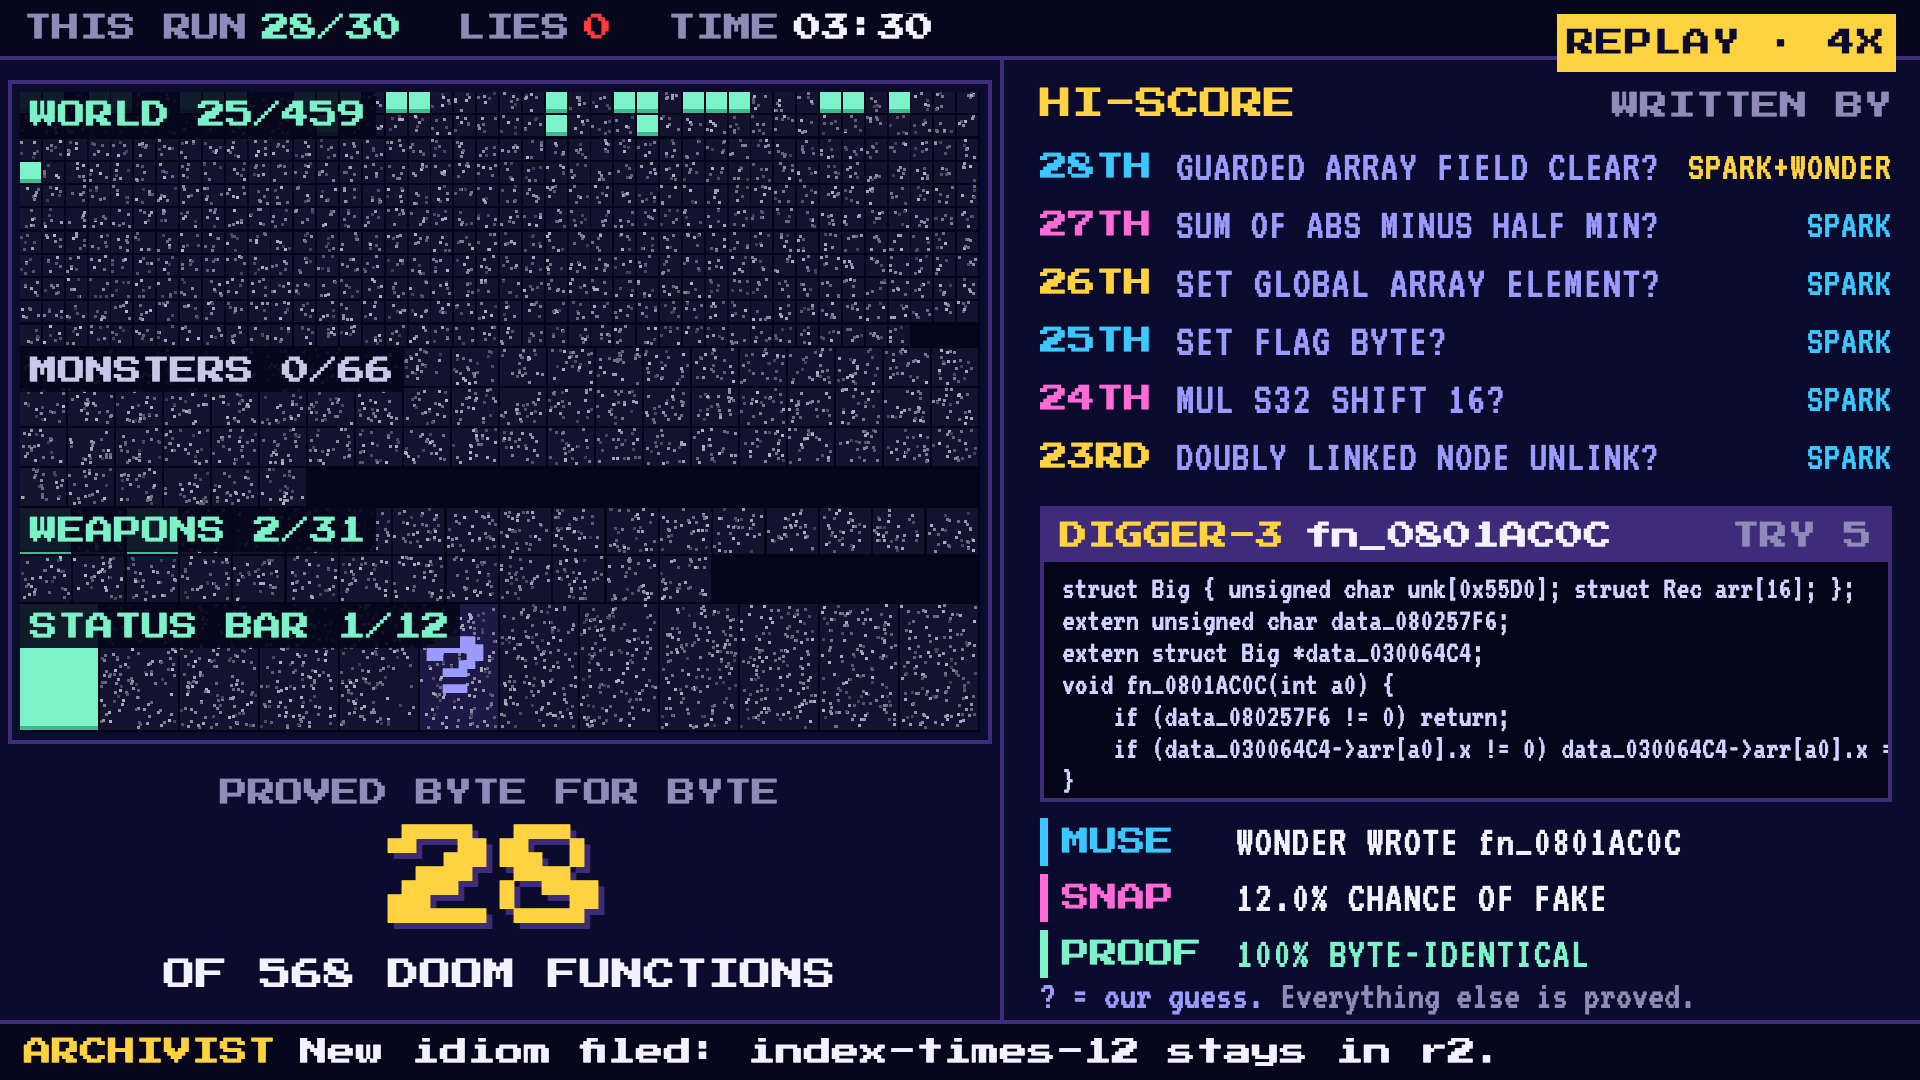
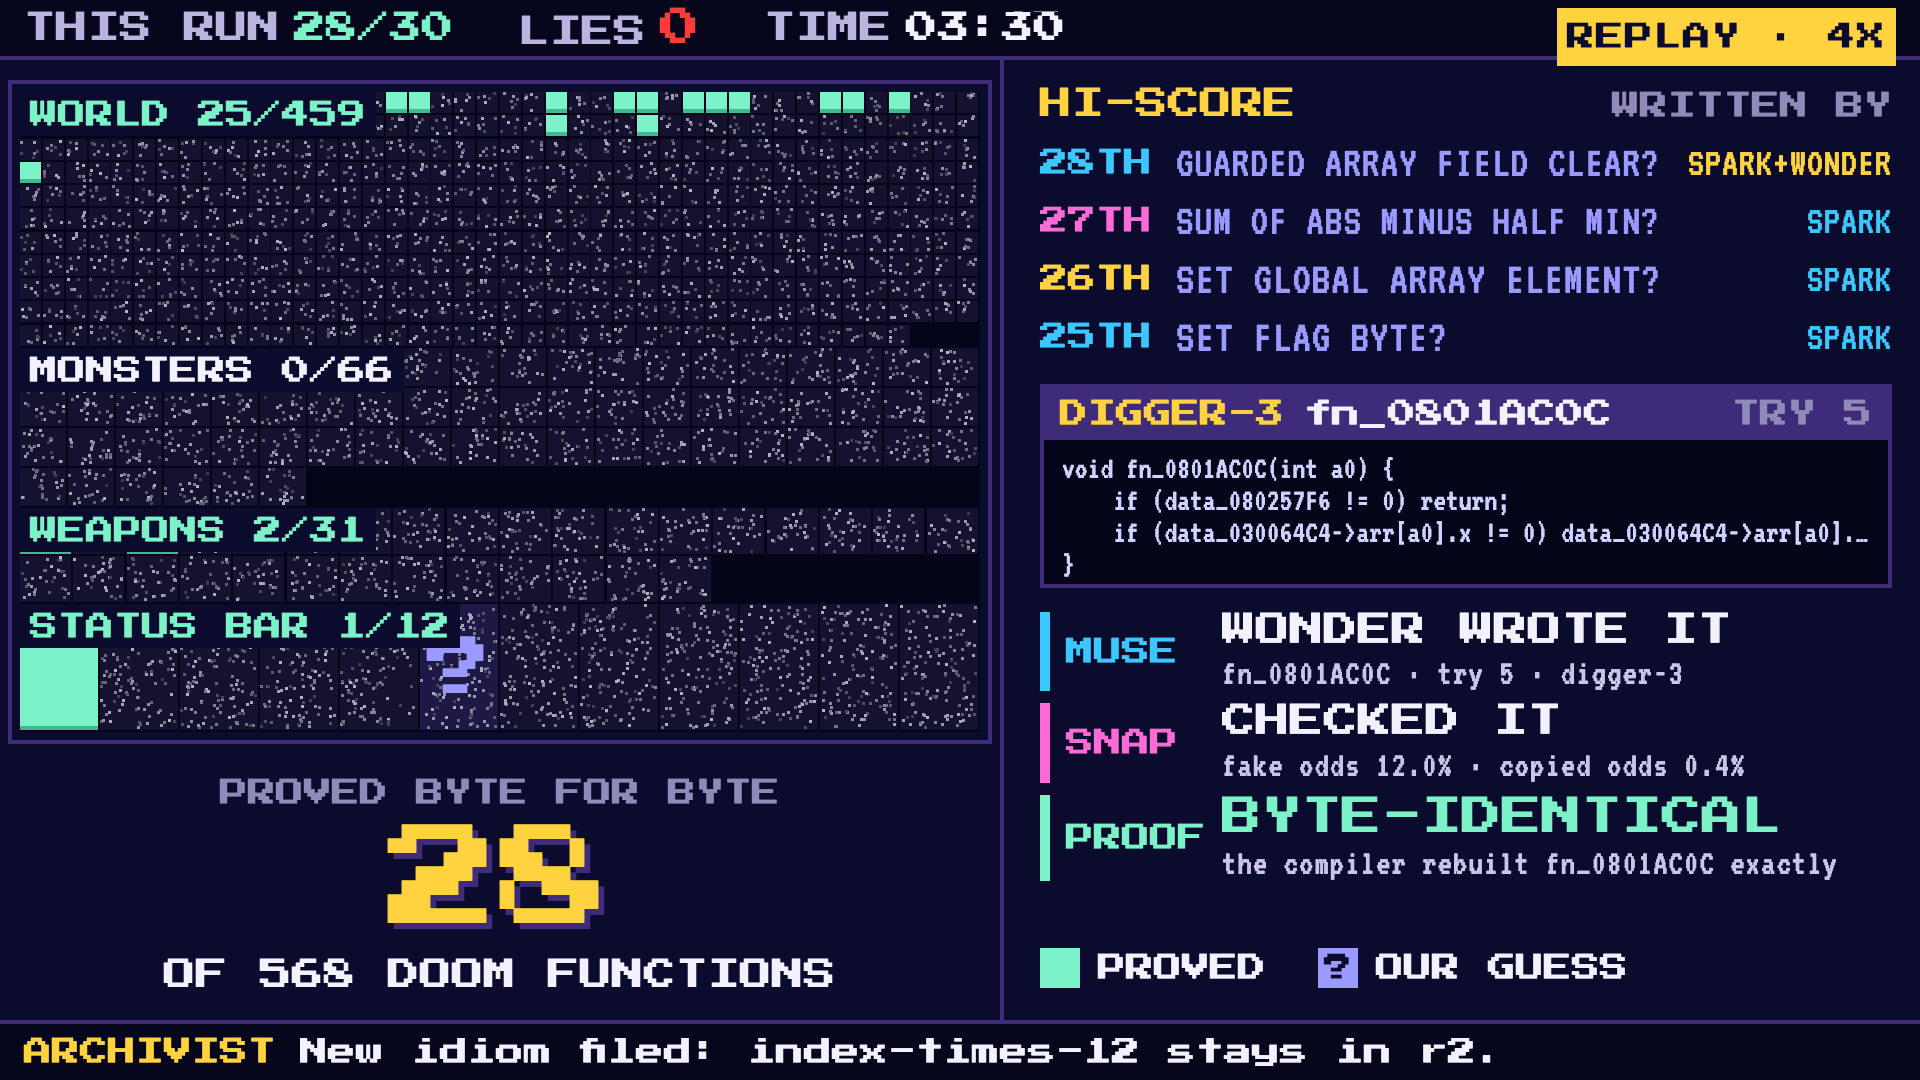
stage: Split reads as Muse wrote it, Snap checked it, the compiler proved it
Evaluator round 1 (Split 4.5/10) found it read as a dashboard with the sponsors
buried. Now the right column is quiet: four hi-score rows, a four-line code
snippet that never clips, and a large proof chain in plain words (who did it,
then the evidence: fake and copied odds, the function rebuilt exactly). A big
PROVED / OUR GUESS legend replaces the footnote; the HUD is larger and the map
labels sit on solid plates.

diff --git a/stage/src/scenes/split.ts b/stage/src/scenes/split.ts
@@ -24,26 +24,29 @@ export function regionRect(r: Region) {
   return { x: FRAME.x + r.x * FRAME.scale, y: FRAME.y + r.y * FRAME.scale, w: r.w * FRAME.scale, h: r.h * FRAME.scale };
 }
 
-/** One line of what SubQ Snap (or Gemini, the second lab) just decided, in plain words. */
-export function snapLine(d: SnapDecision, s: State): { tag: string; text: string; cls: string } {
+/** A proof-chain line: who (tag), what they did in plain words (big), the evidence (small). */
+export type ChainLine = { tag: string; big: string; small: string; cls: string };
+
+/** What SubQ Snap (or Gemini, the second lab) just decided, in plain words. */
+export function snapLine(d: SnapDecision, s: State): ChainLine {
   const p = d.p ?? {};
-  const conf = typeof p.confidence === 'number' ? ` ${Math.round(p.confidence * 100)}%` : '';
+  const sure = typeof p.confidence === 'number' ? `${Math.round(p.confidence * 100)}% sure` : '';
   switch (d.op) {
     case 'review': {
-      const lab = String(p.reviewer ?? 'snap');
-      return { tag: lab === 'gemini' ? 'GEMINI' : 'SNAP', text: `${pc(p.fakematch_p)} CHANCE OF FAKE`, cls: lab === 'gemini' ? 'gem' : 'snap' };
+      const gem = String(p.reviewer ?? 'snap') === 'gemini';
+      return { tag: gem ? 'GEMINI' : 'SNAP', big: gem ? 'SECOND OPINION' : 'CHECKED IT', cls: gem ? 'gem' : 'snap',
+        small: `fake odds ${pc(p.fakematch_p)} · copied odds ${pc(p.recital_p)}` };
     }
     case 'decide_next': {
       const a = String(p.action ?? 'keep');
-      const text = a === 'escalate' ? `ESCALATE TO ${short(s.escalationModel ?? 'muse-wonder-1.0')}${conf}`
-        : a === 'abandon' ? `ABANDON IT${conf}` : `KEEP DIGGING${conf}`;
-      return { tag: 'SNAP', text, cls: 'snap hold' };
+      const big = a === 'escalate' ? `SENT IT TO ${short(s.escalationModel ?? 'muse-wonder-1.0')}` : a === 'abandon' ? 'GAVE UP ON IT' : 'KEEP DIGGING';
+      return { tag: 'SNAP', big, small: [sure, d.fn ? `${d.fn}, after try ${p.attempt ?? '?'}` : ''].filter(Boolean).join(' · '), cls: 'snap' };
     }
-    case 'triage': return { tag: 'SNAP', text: `READ ${p.functions ?? '?'} FUNCTIONS AT ONCE`, cls: 'snap hold' };
-    case 'director': return { tag: 'SNAP', text: `PLAY PICKED ${d.fn ?? (p.fns?.[0] ?? '?')}`, cls: 'snap hold' };
-    case 'eyes': return { tag: 'SNAP', text: 'CHECKED THE GAME FRAMES', cls: 'snap hold' };
-    case 'route': return { tag: 'SNAP', text: 'ROUTED A PLAIN-WORDS ASK', cls: 'snap hold' };
-    default: return { tag: 'SNAP', text: d.op.toUpperCase(), cls: 'snap' };
+    case 'triage': return { tag: 'SNAP', big: 'PICKED THE ORDER', small: `read ${p.functions ?? '?'} functions at once`, cls: 'snap' };
+    case 'director': return { tag: 'SNAP', big: 'PICKED FROM PLAY', small: `next up: ${d.fn ?? (p.fns?.[0] ?? '?')}${sure ? ` · ${sure}` : ''}`, cls: 'snap' };
+    case 'eyes': return { tag: 'SNAP', big: 'WATCHED THE GAME', small: 'compared two frames', cls: 'snap' };
+    case 'route': return { tag: 'SNAP', big: 'ROUTED A REQUEST', small: 'plain words to functions', cls: 'snap' };
+    default: return { tag: 'SNAP', big: d.op.toUpperCase(), small: '', cls: 'snap' };
   }
 }
 
@@ -84,11 +87,11 @@ export class SplitScene implements Scene {
           <div class="stamp"></div>
         </div>
         <div class="chain">
-          <div class="pl muse"><b>MUSE</b><span data-k="pMuse">WAITING FOR A DIGGER</span></div>
-          <div class="pl snap"><b data-k="pSnapTag">SNAP</b><span data-k="pSnap">WAITING FOR A DECISION</span></div>
-          <div class="pl proof"><b>PROOF</b><span data-k="pProof">WAITING FOR THE COMPILER</span></div>
+          <div class="pl muse" data-k="lMuse"><b>MUSE</b><span class="big"></span><span class="small"></span></div>
+          <div class="pl snap" data-k="lSnap"><b>SNAP</b><span class="big"></span><span class="small"></span></div>
+          <div class="pl proof" data-k="lProof"><b>PROOF</b><span class="big"></span><span class="small"></span></div>
         </div>
-        <div class="keyline"><em>? = our guess.</em> Everything else is proved.</div>
+        <div class="legend"><span class="sw ok"></span>PROVED<span class="sw q">?</span>OUR GUESS</div>
         <div class="pip"></div>
       </div>
       <div class="ticker">${tickerHtml()}</div>`;
@@ -104,7 +107,7 @@ export class SplitScene implements Scene {
   render(ctx: Ctx) {
     const s = ctx.state;
     renderHud(this.el, s);
-    renderRows(this.rowsEl, ctx, 6, this.memo, null, writer);
+    renderRows(this.rowsEl, ctx, 4, this.memo, null, writer);
     this.renderCode(ctx);
     this.renderProof(ctx);
     this.total = gameTotal(ctx);
@@ -180,7 +183,9 @@ export class SplitScene implements Scene {
   private renderProof(ctx: Ctx) {
     const s = ctx.state;
     const a = s.lastAttempt;
-    const muse = a ? `${short(a.model ?? s.model)} WROTE ${a.fn}` : 'WAITING FOR A DIGGER';
+    const muse: ChainLine = a
+      ? { tag: 'MUSE', big: `${short(a.model ?? s.model)} WROTE IT`, small: `${a.fn} · try ${a.attempt} · ${a.actor}`, cls: 'muse' }
+      : { tag: 'MUSE', big: 'WAITING', small: 'for a digger to write C', cls: 'muse' };
     // steering decisions stay up for a moment; the per-match fake gate replaces them after that
     const latest = s.snap[s.snap.length - 1] ?? null;
     const now = performance.now();
@@ -188,31 +193,27 @@ export class SplitScene implements Scene {
       const holding = this.snapShown && this.snapShown.op !== 'review' && now - this.snapAt < HOLD_MS;
       if (!holding || latest.op !== 'review') { this.snapShown = latest; this.snapAt = now; }
     }
-    const sn = this.snapShown ? snapLine(this.snapShown, s) : { tag: 'SNAP', text: s.snapOn ? 'WAITING FOR A DECISION' : 'OFF IN THIS RUN', cls: 'snap' };
+    const sn: ChainLine = this.snapShown ? snapLine(this.snapShown, s)
+      : { tag: 'SNAP', big: s.snapOn ? 'WAITING' : 'OFF', small: s.snapOn ? 'for a decision' : 'not used in this run', cls: 'snap' };
     const v = s.lastVerdict;
-    const proof = !v ? 'WAITING FOR THE COMPILER'
-      : v.claim_was_true === false ? `LIE CAUGHT · ${v.match_pct.toFixed(1)}%`
-      : v.status === 'MATCH' ? '100% BYTE-IDENTICAL'
-      : `${STATUS_TEXT[v.status] ?? v.status}${v.status === 'PARTIAL' ? ` ${v.match_pct.toFixed(1)}%` : ''} · OUT`;
-    const key = `${muse}|${sn.tag}|${sn.text}|${proof}`;
+    const proof: ChainLine = !v ? { tag: 'PROOF', big: 'WAITING', small: 'for the compiler', cls: 'proof' }
+      : v.claim_was_true === false ? { tag: 'PROOF', big: 'LIE CAUGHT', small: `claimed a match, only ${v.match_pct.toFixed(1)}% of bytes agree`, cls: 'proof bad' }
+      : v.status === 'MATCH' ? { tag: 'PROOF', big: 'BYTE-IDENTICAL', small: `the compiler rebuilt ${v.fn} exactly`, cls: 'proof' }
+      : v.status === 'PARTIAL' ? { tag: 'PROOF', big: 'NOT A MATCH', small: `${v.match_pct.toFixed(1)}% of bytes agree · rejected`, cls: 'proof bad' }
+      : { tag: 'PROOF', big: 'REJECTED', small: v.status === 'LINT_FAIL' ? 'broke the no-cheating rules' : `${STATUS_TEXT[v.status] ?? v.status}`, cls: 'proof bad' };
+    const lines: [string, ChainLine][] = [['lMuse', muse], ['lSnap', sn], ['lProof', proof]];
+    const key = lines.map(([, l]) => `${l.tag}/${l.big}/${l.small}`).join('|');
     if (key === this.proofKey) return;
     const old = this.proofKey.split('|');
     this.proofKey = key;
-    setText(this.el, 'pMuse', muse);
-    setText(this.el, 'pSnapTag', sn.tag);
-    setText(this.el, 'pSnap', sn.text);
-    setText(this.el, 'pProof', proof);
-    const line = (k: string) => this.el.querySelector(`[data-k="${k}"]`)!.parentElement as HTMLElement;
-    line('pSnap').className = `pl ${sn.cls}`;
-    line('pProof').className = `pl proof${v && (v.status !== 'MATCH' || v.claim_was_true === false) ? ' bad' : ''}`;
-    // a line that changed blinks once
-    const changed = [old[0] !== muse, old[2] !== sn.text, old[3] !== proof];
-    if (!ctx.reduced) (['pMuse', 'pSnap', 'pProof'] as const).forEach((k, i) => {
-      if (!changed[i]) return;
-      const el = line(k);
-      el.classList.remove('tick');
-      void el.offsetWidth;
-      el.classList.add('tick');
+    lines.forEach(([k, l], i) => {
+      const el = this.el.querySelector(`[data-k="${k}"]`) as HTMLElement;
+      el.className = `pl ${l.cls}`;
+      el.querySelector('b')!.textContent = l.tag;
+      el.querySelector('.big')!.textContent = l.big;
+      el.querySelector('.small')!.textContent = l.small;
+      // a line that changed blinks once
+      if (!ctx.reduced && old[i] !== `${l.tag}/${l.big}/${l.small}`) { el.classList.remove('tick'); void el.offsetWidth; el.classList.add('tick'); }
     });
   }
 
@@ -234,8 +235,10 @@ export class SplitScene implements Scene {
     const target = Math.min(t.text.length, Math.floor(((performance.now() - t.t0) / 1000) * t.cps));
     if (target !== t.shown || !this.pre.childNodes.length) {
       t.shown = Math.max(t.shown, target);
-      const lines = t.text.slice(0, t.shown).split('\n').slice(-7).join('\n');
-      this.pre.innerHTML = `<span>${esc(lines)}${t.shown < t.text.length ? '<i class="caret"></i>' : ''}</span>`;
+      // a short snippet: the newest four lines, each cut cleanly at the window edge
+      const lines = t.text.slice(0, t.shown).split('\n').filter((l) => l.trim()).slice(-4);
+      const caret = t.shown < t.text.length ? '<i class="caret"></i>' : '';
+      this.pre.innerHTML = lines.map((l, i) => `<div>${esc(l)}${i === lines.length - 1 ? caret : ''}</div>`).join('');
     }
   }
 

diff --git a/stage/src/style.css b/stage/src/style.css
@@ -397,3 +397,28 @@ body.obs .split .game-frame .ph { display: none; }
 /* director cue: beat number for the presenter, shown briefly */
 #cue { position: absolute; left: 24px; bottom: 76px; z-index: 60; font: 28px/1 var(--hud); color: var(--midnight); background: var(--guess); padding: 10px 12px; display: none; }
 #cue.on { display: block; }
+
+/* ---------- SPLIT v2: one focal point (the map + the hero count), the proof chain as the loudest thing on the right ---------- */
+.split .hud { font-size: 32px; gap: 64px; }
+.split .hud .k { color: #b9b4e0; }
+.split .hud .lies .v { font-size: 40px; }
+.stage[data-scene='split'] #mark { top: 8px; }
+.split .rows { margin-top: 14px; height: 232px; }
+.split .codewin { margin-top: 18px; height: 204px; }
+.split .codewin pre { padding: 12px 18px; }
+.split .codewin pre div { white-space: pre; overflow: hidden; text-overflow: ellipsis; height: 32px; }
+.split .stamp { right: 18px; bottom: 14px; font-size: 36px; padding: 14px 16px; }
+.split .pip { top: 326px; height: 204px; }
+.split .pip .ev, .split .pip .bars { display: none; }
+.split .chain { top: 552px; gap: 12px; }
+.split .pl { grid-template-columns: 182px minmax(0,1fr); grid-template-rows: auto auto; height: auto; row-gap: 6px; overflow: visible; }
+.split .pl b { grid-row: 1 / span 2; align-self: stretch; display: flex; align-items: center; font-size: 28px; padding: 0 0 0 16px; border-left-width: 10px; }
+.split .pl .big { font: 34px/1.1 var(--hud); color: var(--ink); white-space: nowrap; overflow: hidden; letter-spacing: 0; }
+.split .pl .small { font: 36px/1 var(--code); color: #c9c6e8; white-space: nowrap; overflow: hidden; text-overflow: ellipsis; letter-spacing: 1px; }
+.split .pl.proof .big { color: var(--mint); font-size: 40px; }
+.split .pl.proof.bad .big { color: var(--alarm); }
+.split .pl.tick .big { animation: plpulse 0.5s steps(2); }
+.split .legend { position: absolute; left: 36px; right: 28px; top: 888px; display: flex; align-items: center; gap: 18px; font-size: 28px; color: var(--ink); white-space: nowrap; }
+.split .legend .sw { display: inline-grid; place-items: center; width: 40px; height: 40px; font-size: 28px; color: var(--midnight); }
+.split .legend .sw.ok { background: var(--mint); }
+.split .legend .sw.q { background: var(--guess); margin-left: 34px; }

diff --git a/stage/src/scenes/mosaic.ts b/stage/src/scenes/mosaic.ts
@@ -127,9 +127,9 @@ export class Mosaic {
       const n = sub.functions.filter((f) => s.matchedSet.has(f)).length;
       const label = `${band.label} ${n}/${sub.functions.length}`;
       const tw = g.measureText(label).width;
-      g.fillStyle = 'rgba(5,5,26,0.9)';
+      g.fillStyle = '#0B0B2E';
       g.fillRect(band.x * S, band.y * S, tw + 20, 44);
-      g.fillStyle = n ? '#7CF2C8' : '#c9c6e8';
+      g.fillStyle = n ? '#7CF2C8' : '#F4F1FF';
       g.fillText(label, band.x * S + 10, band.y * S + 9);
     }
   }
